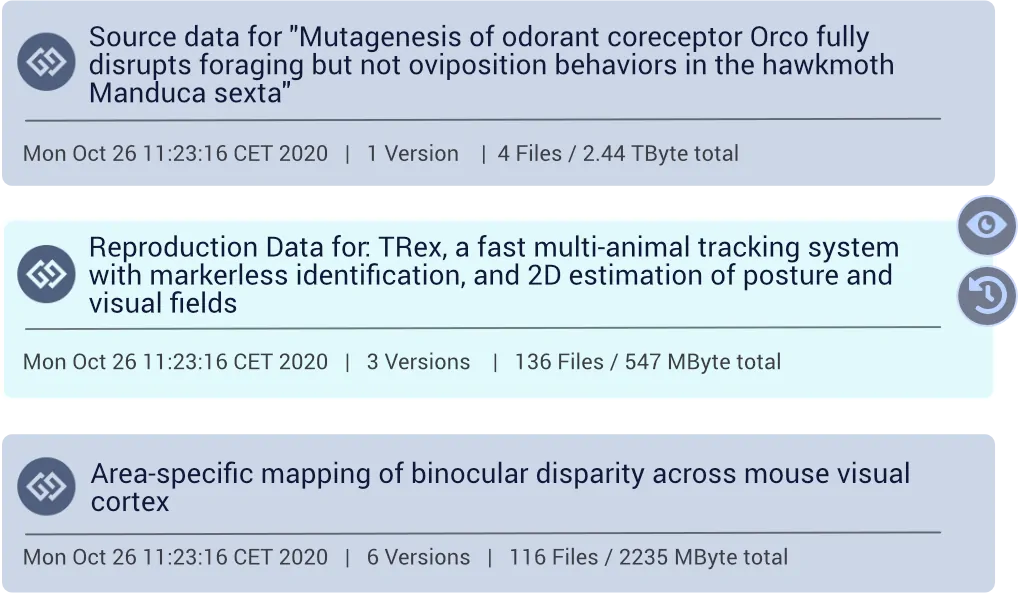
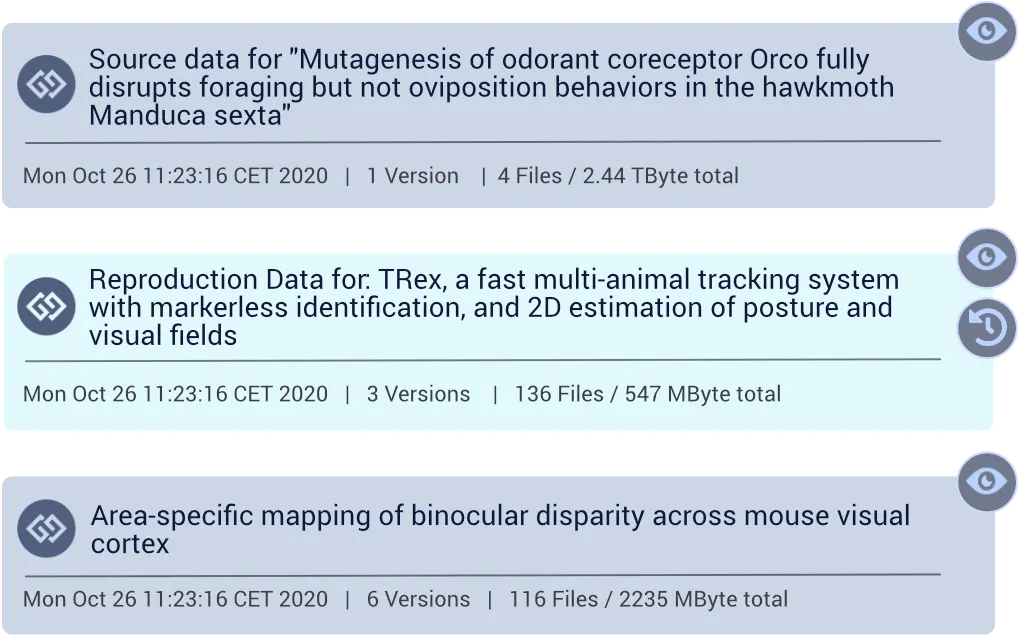
feat RD-85: Add first version dataset public view based on wireframe (open by click in recent list). Add multiple clickable view eyes in my-datasets list, not only on selected.

Changed region(s): [[0.0, 0.0, 1.0, 0.6374], [0.0, 0.6981, 1.0, 0.9713], [0.0305, 0.6678, 0.944, 0.6981]]

diff --git a/src/css/r2.scss b/src/css/r2.scss
@@ -258,7 +258,6 @@
                             opacity: 0.8;
                         }
 
-
                         .box-header-search {
                             top: 11px;
                             left: 242px;
@@ -735,6 +734,174 @@
                     transform-origin: center;
                 }
                 .view {
+                    .head-seperator {
+                        left: 50px;
+                        div {
+                            width: 1030px;
+                        }
+                    }
+                    .inner {
+                        top: 10px;
+                        left: 10px;
+                        width: calc(100% - 20px);
+                        transform: none;
+                    }
+                    .bt-box-edit,
+                    .bt-box-edit-selected {
+                        top: 3px;
+                        right: 18px;
+                        width: 73px;
+                        height: 72px;
+                    }
+                    .box-sharebar {
+                        top: -1px;
+                        right: 7px;
+                        width: 333px;
+                        height: 95px;
+                    }
+                    .box-sym-dataset {
+                        top: 5px;
+                        left: 5px;
+                        width: 75px;
+                        height: 75px;
+                    }
+                    .headline {
+                        left: 50px;
+                    }
+                    .box-menu-divider {
+                        right: 64px;
+                    }
+                    .bt-box-upload {
+                        top: 5px;
+                        right: 80px;
+                        width: 116px;
+                        height: 70px;
+                    }
+                    .upload-info {
+                        top: 10px;
+                        right: 147px;
+                    }
+                    .bt-publish {
+                        right: 75px;
+                        top: 8px;
+                        transform: scale(0.95);
+                    }
+                    .bt-cms-keep-discard {
+                        top: 132px;
+                        left: 751px;
+                        width: 60px;
+                        height: 30px;
+                    }
+                    .doi-cover {
+                        top: 235px;
+                        left: 220px;
+                        width: 149px;
+                        height: 19px;
+                        background-color: white;
+                    }
+
+                    // &.my-dataset-published,
+                    &.my-dataset-edit,
+                    &.my-dataset-edit-field {
+                        .box-sharebar {
+                            right: 68px;
+                        }
+                    }
+                    &.my-dataset-edit {
+                        .dataset-edit-symbols-layer {
+                            top: 81px;
+                            left: 143px;
+                            width: 915px;
+                            height: 268px;
+                        }
+                    }
+                    &.my-dataset-edit-field {
+                        .dataset-edit-layer {
+                            top: 47px;
+                            left: 20px;
+                            width: 1060px;
+                            height: 425px;
+                        }
+                    }
+                    &.my-dataset-edit-text {
+                        .dataset-edit-layer {
+                            top: 47px;
+                            left: 20px;
+                            width: 1060px;
+                            height: 425px;
+                        }
+                    }
+                }
+            }
+
+            &.dataset-wf {
+                top: 10px;
+                left: 20px;
+                --width: 1100px;
+                --height: 500px;
+                width: var(--width);
+                height: var(--height);
+                .view,
+                .view .elements,
+                .view .zones {
+                    width: var(--width);
+                    height: var(--height);
+                }
+
+                .view {
+                    .scrollable {
+                        width: 1080px;
+                        height: 420px;
+                        .inner {
+                            left: 5px;
+                            top: 5px;
+                            &.bg-img.public-dataset-wf-scroll {
+                                width: calc(1537px / 2);
+                                height: calc(1751px / 2);
+                            }
+                        }
+                        .scroll-bg {
+                            width: 1100px;
+                            height: 960px;
+                            background-color: white;
+                        }
+
+                        .dataset-public-wf-views {
+                            left: 787px;
+                            top: 10px;
+                            width: calc(498px / 2);
+                            height: calc(157px / 2);
+                        }
+
+                        .dataset-public-wf-versions {
+                            left: 787px;
+                            top: 100px;
+                            width: calc(498px / 2);
+                            height: calc(594px / 2);
+                        }
+
+                        .dataset-public-wf-citations {
+                            left: 787px;
+                            top: 408px;
+                            width: calc(498px / 2);
+                            height: calc(308px / 2);
+                        }
+
+                        .dataset-public-wf-versions-closed {
+                            left: 787px;
+                            top: 186px;
+                            width: calc(498px / 2);
+                            height: calc(68px / 2);
+                        }
+
+                        .dataset-public-wf-audits {
+                            left: 787px;
+                            top: 228px;
+                            width: calc(498px / 2);
+                            height: calc(466px / 2);
+                        }
+                    }
+
                     .head-seperator {
                         left: 50px;
                         div {

diff --git a/src/js/R2UiBoxDefinitions.js b/src/js/R2UiBoxDefinitions.js
@@ -409,6 +409,90 @@ function R2UiBoxDefinitions() {
         //         }
         //     }
         // },
+
+        'dataset-wf': {
+            close: true,
+            views: {
+                'public-dataset-wf': {
+                    elements: {
+                        'box-sym-dataset': {
+                            classes: 'scale x50 t-l'
+                        },
+                        headline: { html: 'Dataset: DOI 10.1002/0470841559.ch1' },
+                        'head-seperator': {},
+                        'box-sharebar': {
+                            classes: 'scale x50 t-r'
+                        }
+                    },
+                    scroll: {
+                        elements: {
+                            'dataset-public-wf-views': {},
+                            'dataset-public-wf-versions': {},
+                            // 'dataset-public-wf-versions-closed': {},
+                            // 'dataset-public-wf-audits': {},
+                            'dataset-public-wf-citations': {}
+                        }
+
+                        // zones: {
+                        // 'show-ds-1': {
+                        //     key: 'show-public-dataset'
+                        // },
+                        // 'show-ds-2': {
+                        //     key: 'show-public-dataset'
+                        // },
+                        // 'show-ds-3': {
+                        //     key: 'show-public-dataset'
+                        // },
+                        // 'show-ds-4': {
+                        //     key: 'show-public-dataset'
+                        // },
+                        // 'show-ds-5': {
+                        //     key: 'show-public-dataset'
+                        // }
+                        // }
+                    }
+                }
+            }
+        },
+
+        datasetYY: {
+            close: true,
+            views: {
+                'public-dataset': {
+                    elements: {
+                        elements: {
+                            'box-sym-dataset': {
+                                classes: 'scale x50 t-l'
+                            },
+                            headline: { html: 'Dataset: DOI 10.1002/0470841559.ch1' },
+                            'head-seperator': {},
+                            'box-sharebar': {
+                                classes: 'scale x50 t-r'
+                            }
+                        }
+                    },
+                    scroll: {
+                        zones: {
+                            // 'show-ds-1': {
+                            //     key: 'show-public-dataset'
+                            // },
+                            // 'show-ds-2': {
+                            //     key: 'show-public-dataset'
+                            // },
+                            // 'show-ds-3': {
+                            //     key: 'show-public-dataset'
+                            // },
+                            // 'show-ds-4': {
+                            //     key: 'show-public-dataset'
+                            // },
+                            // 'show-ds-5': {
+                            //     key: 'show-public-dataset'
+                            // }
+                        }
+                    }
+                }
+            }
+        },
         dataset: {
             close: true,
             views: {

diff --git a/src/components/Cage.vue b/src/components/Cage.vue
@@ -5,6 +5,7 @@
         <!--  -->
         <box class="animate bg-dark" :config="boxes['create-dataset']"></box>
         <box class="animate bg-dark" :config="boxes['dataset']"></box>
+        <box class="animate bg-dark" :config="boxes['dataset-wf']"></box>
         <box
             class="animate bg-dark"
             :class="[{ 'facets-shifted': $store.state.loggedIn || viewMode === 'facets' }]"
@@ -185,10 +186,10 @@ export default {
                             options._NAV = {
                                 // backOnCloseTo: 'home' // needs implementation
                             }
-                            options.dataset = {
-                                view: 'public-dataset'
+                            options['dataset-wf'] = {
+                                view: 'public-dataset-wf'
                             }
-                            return this.setViewMode('view-dataset', options)
+                            return this.setViewMode('view-dataset-wf', options)
                         case 'show-facets':
                             options['recent'] = {
                                 view: 'recent-facets'
@@ -327,6 +328,9 @@ export default {
                     // path = 'View Dataset / Reproduction Data for: TRex, a fast multi-animal tracking system ...'
                     path = 'View Dataset / DOI / 10.1002/0470841559.ch1'
                     break
+                case 'view-dataset-wf':
+                    path = 'View Dataset / DOI / 10.1002/0470841559.ch1'
+                    break
             }
             this.$store.dispatch('setSubPath', path)
 
@@ -401,6 +405,10 @@ export default {
                     globals.eventBus.$emit('reset-login-animation')
                     break
 
+                case 'view-dataset-wf':
+                    goIns = { 'dataset-wf': { delay: 0.1, speed: 0.6 } }
+                    globals.eventBus.$emit('reset-login-animation')
+                    break
                 case 'register':
                     console.log('setViewMode:register options = ', options)
                     goIns = { register: { delay: 0.25, speed: 0.6, view: 'step-1' } }
@@ -456,6 +464,9 @@ export default {
 
                 // handle the different views inside the box
                 const view = this.boxes[boxId].views[prms.view]
+
+                console.log('obj:fc view = ', view)
+                console.log('obj:fc this.boxes[boxId] = ', this.boxes[boxId])
                 _.each(this.boxes[boxId].views, vu => {
                     if (view !== vu) {
                         gsap.killTweensOf($(`${animationTargets}.${boxId} .${vu.id}`))

diff --git a/src/css/r2-assets.scss b/src/css/r2-assets.scss
@@ -40,15 +40,15 @@
 
         &.recent-scroll,
         &.recent-facets-scroll {
-            background-image: url(./r2-ui/recent-scroll.png);
+            background-image: url(./r2-ui/recent-scroll.webp);
         }
 
         &.box-header-search {
-            background-image: url(./r2-ui/box-header-search.png);
+            background-image: url(./r2-ui/box-header-search.webp);
         }
 
         &.box-header-list-options {
-            background-image: url(./r2-ui/box-header-list-options.png);
+            background-image: url(./r2-ui/box-header-list-options.webp);
         }
 
         &.facets {
@@ -68,7 +68,7 @@
         }
         //
         &.mywork-all-list {
-            background-image: url(./r2-ui/mywork-all-list.png);
+            background-image: url(./r2-ui/mywork-all-list.webp);
         }
         &.mywork-ds-history {
             background-image: url(./r2-ui/mywork-ds-history.webp);
@@ -136,8 +136,28 @@
         &.sym-diamond-sel {
             background-image: url(./r2-ui/main/sym-diamond-sel.webp);
         }
-        // dataset views
+        // wireframe dataset views & stuff
 
+        &.public-dataset-wf-scroll {
+            background-image: url(./r2-ui/dataset-public-wf.webp);
+        }
+        &.dataset-public-wf-views {
+            background-image: url(./r2-ui/dataset-public-wf-views.webp);
+        }
+        &.dataset-public-wf-versions {
+            background-image: url(./r2-ui/dataset-public-wf-versions.webp);
+        }
+        &.dataset-public-wf-versions-closed {
+            background-image: url(./r2-ui/dataset-public-wf-versions-closed.webp);
+        }
+        &.dataset-public-wf-audits {
+            background-image: url(./r2-ui/dataset-public-wf-audits.webp);
+        }
+        &.dataset-public-wf-citations {
+            background-image: url(./r2-ui/dataset-public-wf-citations.webp);
+        }
+
+        // dataset views
         &.my-dataset,
         &.my-dataset-from-history,
         &.my-dataset-published,
